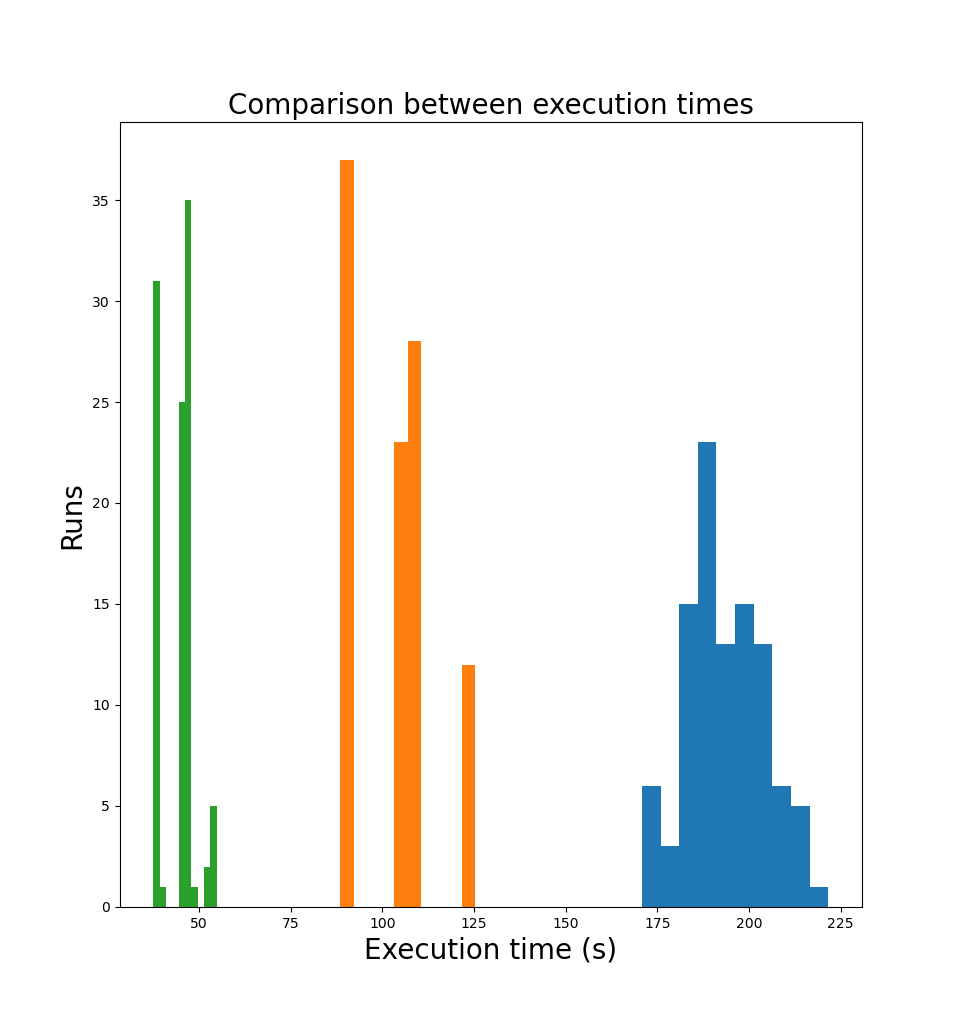
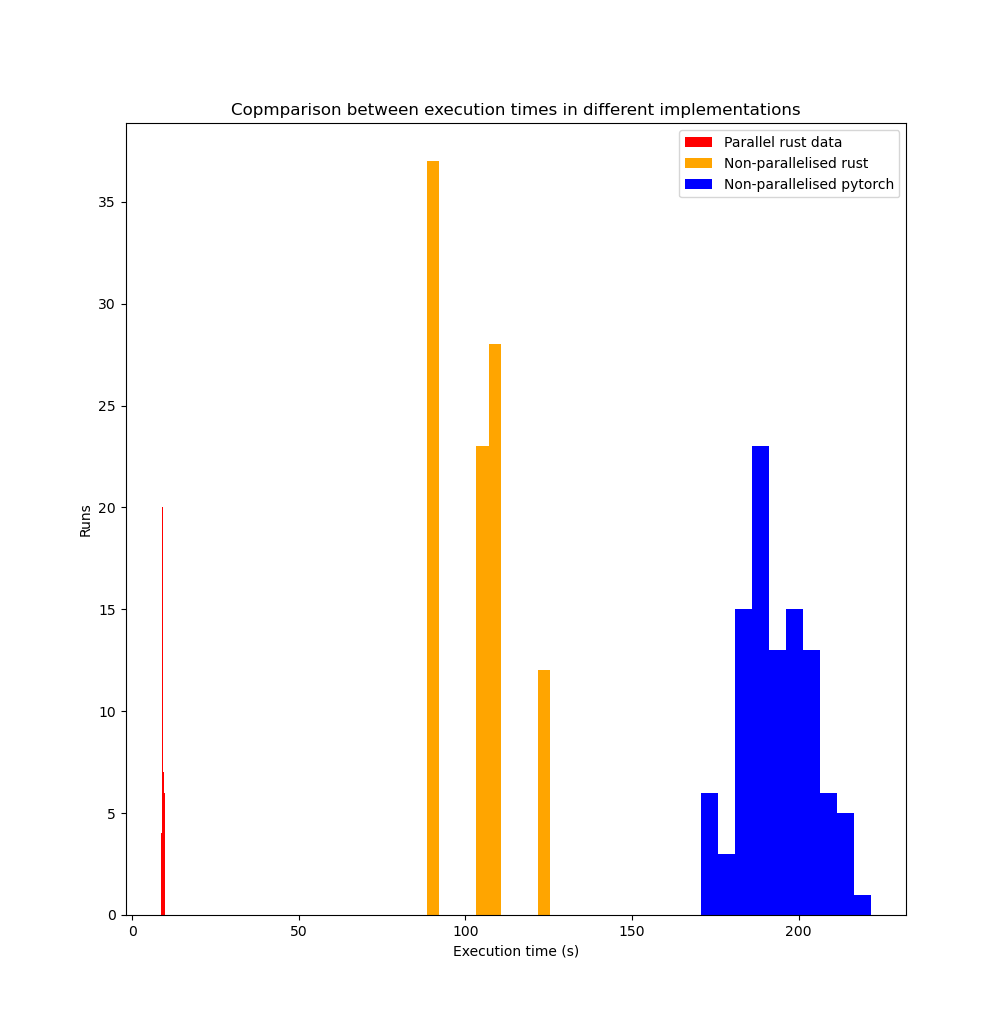
Updated plots

diff --git a/results/comparison_script.py b/results/comparison_script.py
@@ -1,14 +1,17 @@
 import json
 import matplotlib.pyplot as plt
 def main():
-    parallel = pull_data_from_json("./parallel.json")
-    rust_data = pull_data_from_json("./rust_results.json")
+    parallel_rust = pull_data_from_json("./parallel.json")
+    rust = pull_data_from_json("./rust_results.json")
+    python = pull_data_from_json("./py_results.json")
     fig, ax = plt.subplots(figsize=(10, 100))
-    b1 = ax.hist(parallel["times"], color="red")
-    b2 = ax.hist(rust_data["times"], color="orange")
+    b1 = ax.hist(parallel_rust["times"], color="red", label="Parallel rust data")
+    b2 = ax.hist(rust["times"], color="orange", label="Non-parallelised rust")
+    b3 = ax.hist(python["times"], color="blue", label="Non-parallelised pytorch")
+    ax.legend();
 
     ax.autoscale(enable=True, axis='both', tight=False)
-    ax.set_title("Comparison between execution times of rust version (orange) and rust parallel version (red)")
+    ax.set_title("Copmparison between execution times in different implementations")
     ax.xaxis.set_label_text("Execution time (s)")
     ax.yaxis.set_label_text("Runs")
     plt.show()
@@ -18,8 +21,6 @@ def pull_data_from_json(file_path: str) -> dict:
         data = json.load(f)
     results = data["results"]
     return results[0]
-
-
 
 if __name__ == "__main__":
     main()

diff --git a/README.md b/README.md
@@ -33,12 +33,7 @@ The network that the models were tested on followed a $[728] \to [256] \to [10]$
 The program exited when the accuracy on test data exceeded $96%$.
 The test data was checked every epoch.
 I have attempted to ensure all parameters in the models are the same but if you spot any disparity please email me or raise an issue.
-The results in green are results from the parallelised rust version, orange is the non-parallelised rust version and blue is the pytorch version (also non-parallelised).
-Below is a graph displaying the results
 ![Figure 1](./results/plot.png)
-
-Now, when parallelised, using the same conditions as above, the parallelised version was about $10\times$ faster than the non parallelised training
-![Figure 2](./results/parallel.png)
 
 ## Testing data
 This section hopes to detail how I obtained my testing data. If you are unsure of anything I recommend you read my blog post which walks through the mathematics!
